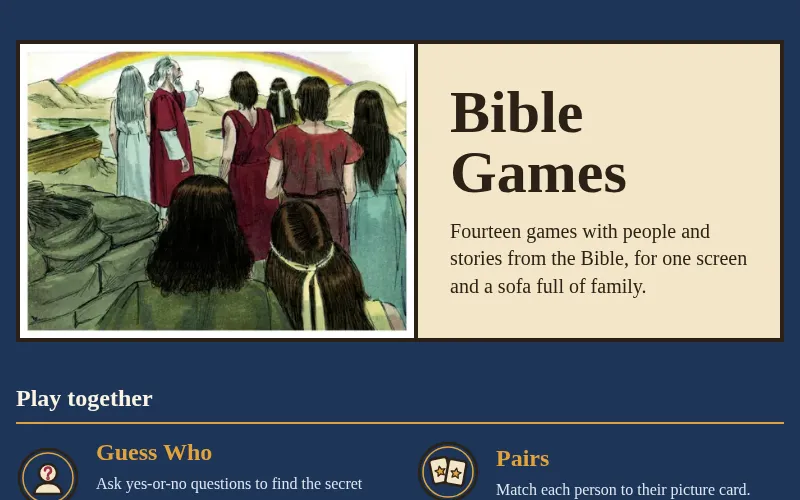
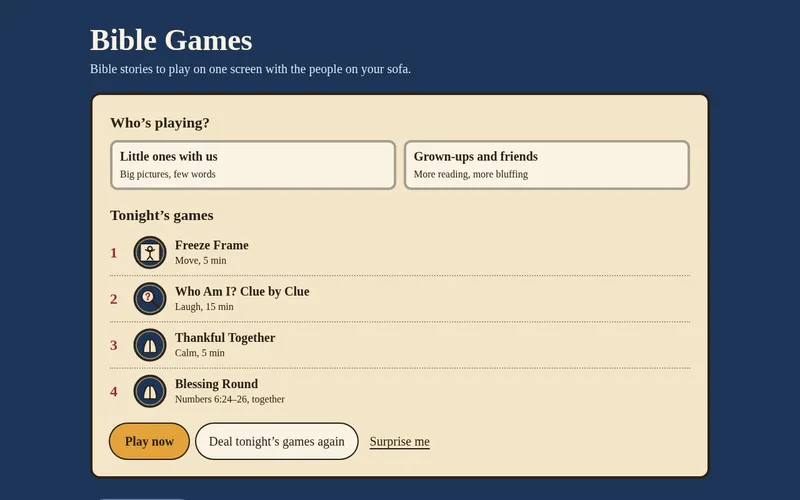
Update Bible Games entry to Bible Game Night: 35 games, new menu screenshots, stack

diff --git a/projects/bible-games/index.html b/projects/bible-games/index.html
@@ -5,8 +5,8 @@
 <meta name="viewport" content="width=device-width, initial-scale=1">
 <meta http-equiv="Content-Security-Policy" content="default-src 'none'; style-src 'self'; img-src 'self'; font-src 'self'; base-uri 'none'; form-action 'none'">
 <meta name="referrer" content="strict-origin-when-cross-origin">
-<title>Bible Games | Dan Wilkinson</title>
-<meta name="description" content="A family collection of Bible games: pass-and-play party games, board games and active games for little ones.">
+<title>Bible Game Night | Dan Wilkinson</title>
+<meta name="description" content="A family Bible game night on one phone: 35 games, a &#39;Play now&#39; line-up that ends with a blessing, and Bible verses quoted exactly from the BSB.">
 <link rel="canonical" href="https://danielpaulwilkinson.github.io/projects/bible-games/">
 <meta name="theme-color" content="#1F3A5F">
 <link rel="preload" href="../../fonts/source-serif-semibold.woff2" as="font" type="font/woff2" crossorigin>
@@ -17,18 +17,24 @@
 <a class="skip" href="#main">Skip to content</a>
 <header class="top"><nav class="wrap" aria-label="Main"><a class="brand" href="../../">Dan Wilkinson</a><ul><li><a href="../../#work">Work</a></li><li><a href="../../#contact">Contact</a></li></ul></nav></header>
 <main id="main" class="project"><div class="wrap narrow">
-<nav aria-label="Breadcrumb" class="crumb"><ol><li><a href="../../">Home</a></li><li><a href="../../#work">Example work</a></li><li aria-current="page">Bible Games</li></ol></nav>
-<h1>Bible Games</h1>
-<p class="lead">A family collection of Bible games: pass-and-play party games, board games like Pilgrim's Way, and active games for little ones.</p>
-<figure class="shot wide"><img src="../../images/bible-games.webp" width="800" height="500" alt="Bible Games home screen with a picture of Noah's family under a rainbow."></figure>
+<nav aria-label="Breadcrumb" class="crumb"><ol><li><a href="../../">Home</a></li><li><a href="../../#work">Example work</a></li><li aria-current="page">Bible Game Night</li></ol></nav>
+<h1>Bible Game Night</h1>
+<p class="lead">A family Bible game night on one phone: 35 games, a 'Play now' line-up that ends with a blessing, and Bible verses quoted exactly from the BSB.</p>
+<figure class="shot wide"><img src="../../images/bible-games.webp" width="800" height="500" alt="Bible Game Night menu on a laptop: a Who's playing? choice, tonight's four games ending with the Blessing Round, and a Play now button."></figure>
 <h2>What it is</h2>
-<p>Games built around people and stories from the Bible, made for one screen and the whole family. Some are pass-and-play party games, some are board games like Pilgrim's Way, and some get little ones up and moving.</p>
+<p>A family Bible game night that runs on one phone, with 35 games. 'Play now' deals tonight's three games, one to get moving, one to laugh and one calm one, and ends with a Blessing Round from Numbers 6:24&ndash;26.</p>
+<ul>
+<li>A 'Who's playing?' choice: little ones with us, or grown-ups and friends.</li>
+<li>Games grouped by mood, with age, time and 'From the Book of' badges.</li>
+<li>Pass-the-phone turns and a winner celebration. Worship rounds are never scored.</li>
+<li>Bible verses quoted exactly from the public-domain Berean Standard Bible (BSB).</li>
+</ul>
 <h2>Why I built it</h2>
-<p>I wanted games my boys could play with us in the evenings that are fun first and keep the real Bible text intact, with every round pointing back to the verse.</p>
+<p>I wanted games my boys could play with us in the evenings that are fun first and keep the real Bible text intact. It's designed around research on co-operative family play: one shared screen in the style of Jackbox or Heads Up, with people looking at each other rather than staring at screens.</p>
 <h2>Screenshots</h2>
-<div class="shots"><figure class="shot"><img src="../../images/p/bible-games-home.webp" width="360" height="720" loading="lazy" alt="Bible Games home screen on a phone."><figcaption>Bible Games home screen on a phone.</figcaption></figure></div>
+<div class="shots"><figure class="shot"><img src="../../images/p/bible-games-home.webp" width="360" height="720" loading="lazy" alt="Bible Game Night menu on a phone, showing Who's playing? and tonight's games."><figcaption>The menu on a phone: pick who's playing, then tap Play now.</figcaption></figure></div>
 <h2>How it's built</h2>
-<p>Vue 3 and TypeScript, running in the browser with nothing to install. Illustrations are by Sweet Publishing, used under CC BY-SA.</p>
+<p>Vue 3 (Composition API), TypeScript and Vite, tested with Vitest (419 tests). Sounds are made with the Web Audio API. It's hosted on GitHub Pages, with no accounts and no tracking. Illustrations are by Sweet Publishing, used under CC BY-SA.</p>
 <h2>Status and limits</h2>
 <p>A personal project that's live and still growing. It's designed for one shared device rather than multiple phones.</p>
 <h2>Links</h2>

diff --git a/index.html b/index.html
@@ -83,8 +83,8 @@
 <img src="images/bible-games.webp" width="800" height="500" loading="lazy" alt="">
 <div class="body">
 <span class="status">Live</span>
-<h3><a class="card-link" href="projects/bible-games/">Bible Games</a></h3>
-<p>A family collection of Bible games: pass-and-play party games, board games like Pilgrim's Way, and active games for little ones. One phone, a sofa full of family.</p>
+<h3><a class="card-link" href="projects/bible-games/">Bible Game Night</a></h3>
+<p>A family Bible game night on one phone: 35 games, and a 'Play now' button that deals tonight's three games and ends with a blessing. Verses are quoted exactly from the BSB.</p>
 <ul class="tags" aria-label="Built with"><li>Vue 3</li><li>TypeScript</li><li>Family play</li></ul>
 <p class="more" aria-hidden="true">Read more</p>
 </div>
